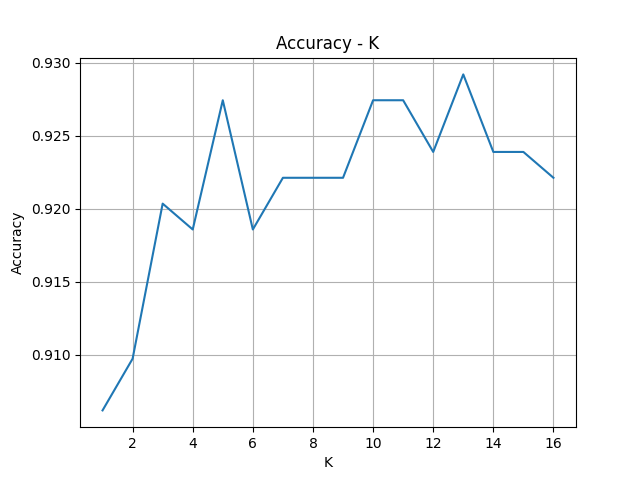
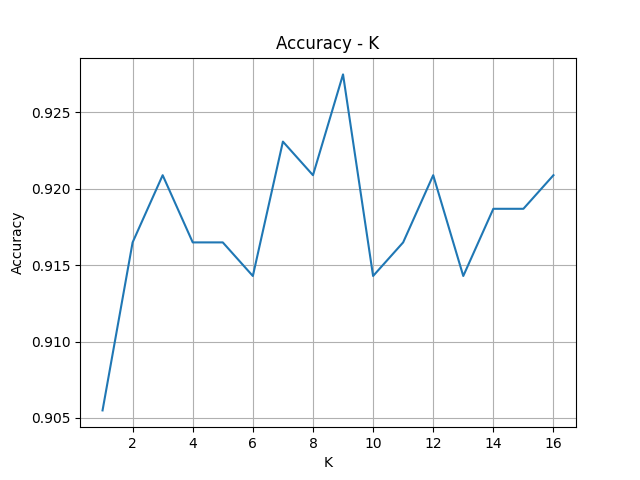
add correlation removal

diff --git a/cancer-knn-v1-pt3.py b/cancer-knn-v1-pt3.py
@@ -22,88 +22,46 @@ def main():
     X_df = data.drop('diagnosis', axis=1)
     y_df = data['diagnosis']
 
-    mean_features, se_features, worst_features = get_grouped_features(X_df)
+    X_df_train, X_df_test, y_df_train, y_df_test = split_df(X_df, y_df)
 
-    X_mean = get_X_by_features(X_df, mean_features)
-    X_se = get_X_by_features(X_df, se_features)
-    X_worst = get_X_by_features(X_df, worst_features)
+    corr_mean, corr_se, corr_worst = get_correlation_matrix(X_df_train)
+    # show_correlation_matrix(corr_mean, corr_se, corr_worst)
+
+    high_corr_mean = get_highly_correlated_groups(corr_mean)
+    high_corr_se = get_highly_correlated_groups(corr_se)
+    high_corr_worst = get_highly_correlated_groups(corr_worst)
+
+    print('highly-correlated groups in se features:', high_corr_se)
+    print('highly-correlated groups in mean features:', high_corr_mean)
+    print('highly-correlated groups in worst features:', high_corr_worst)
+
+    selected_mean = select_best_features(X_df_train, high_corr_mean)
+    selected_se = select_best_features(X_df_train, high_corr_se)
+    selected_worst = select_best_features(X_df_train, high_corr_worst)
+
+    print("Selected from mean:", selected_mean)
+    print("Selected from se:", selected_se)
+    print("Selected from worst:", selected_worst)
+    drop_mean = get_features_to_drop(high_corr_mean, selected_mean)
+    drop_se = get_features_to_drop(high_corr_se, selected_se)
+    drop_worst = get_features_to_drop(high_corr_worst, selected_worst)
+
+    features_to_drop = drop_mean + drop_se + drop_worst
+
+    print("Final features to drop:", features_to_drop)
+    X_df_cleaned = X_df_train.drop(columns=features_to_drop)
+
+    print("Final features after cleaning:", X_df_cleaned.columns)
+
+    k_values = range(1, 17)
+    accuracies = []
     
-    print(f'mean features: {mean_features}')
-    print(f'se features: {se_features}')
-    print(f'worst features: {worst_features}')
+    for k in k_values:
+        acc = cross_validation_accuracy(X_df_cleaned.values, y_df_train.values , k_value=k, n_folds=5)
+        accuracies.append(acc)
 
-    corr_mean = X_mean.corr()
-    corr_se = X_se.corr()
-    corr_worst = X_worst.corr()
-
-    plt.figure(figsize=(15, 6))
-
-    # 1. گروه Mean
-    plt.subplot(1, 3, 1)
-    cax1 = plt.imshow(corr_mean, cmap='coolwarm', interpolation='nearest')
-    plt.title('Correlation Matrix (Mean Features)')
-    plt.xticks(range(len(corr_mean.columns)), corr_mean.columns, rotation=90, fontsize=8)
-    plt.yticks(range(len(corr_mean.columns)), corr_mean.columns, fontsize=8)
-    plt.colorbar(cax1)
-
-    # 2. گروه SE
-    plt.subplot(1, 3, 2)
-    cax2 = plt.imshow(corr_se, cmap='coolwarm', interpolation='nearest')
-    plt.title('Correlation Matrix (SE Features)')
-    plt.xticks(range(len(corr_se.columns)), corr_se.columns, rotation=90, fontsize=8)
-    plt.yticks(range(len(corr_se.columns)), corr_se.columns, fontsize=8)
-    plt.colorbar(cax2)
-
-    # 3. گروه Worst
-    plt.subplot(1, 3, 3)
-    cax3 = plt.imshow(corr_worst, cmap='coolwarm', interpolation='nearest')
-    plt.title('Correlation Matrix (Worst Features)')
-    plt.xticks(range(len(corr_worst.columns)), corr_worst.columns, rotation=90, fontsize=8)
-    plt.yticks(range(len(corr_worst.columns)), corr_worst.columns, fontsize=8)
-    plt.colorbar(cax3)
-
-    plt.tight_layout()
-    plt.show()
-
-
-
-
-    # X_np = X_df.values
-    # Y_np = y_df.values
-
-    # X_train, X_test, y_train, y_test = split(X_np, Y_np)
-
-    # X_train_scaled, X_test_scaled, _, _ = standard_scaler(X_train, X_test)
-
-    # best_k = 6
-
-    # y_pred_proper , accuracy_proper = get_pred_and_accuracy(X_train_scaled, y_train, X_test_scaled, y_test, best_k)
-    # print(f'accuracy on properly scaled data: {accuracy_proper:.4f}')
-
-    # X_full = np.concatenate([X_train, X_test])
-
-    # X_full_scaled, _, _ = standard_scaler(X_full)
-
-    # train_length = len(X_train)
-    # X_train_leaked = X_full_scaled[:train_length]
-    # X_test_leaked = X_full_scaled[train_length:]
-
-    # y_pred_leaked, accuracy_leaked = get_pred_and_accuracy(X_train_leaked, y_train, X_test_leaked, y_test, best_k)
-
-    # print(f'accuracy on leaky scaled data: {accuracy_leaked:.4f}')
-
-    # difference = accuracy_leaked - accuracy_proper
-    # print(f'difference on accuracy between proper and leaked scaling: {difference:.4f}')
-
-    # k_values = range(1, 17)
-    # accuracies = []
-    
-    # for k in k_values:
-    #     acc = cross_validation_accuracy(X_train_scaled, y_train, k_value=k, n_folds=5)
-    #     accuracies.append(acc)
-
-    # best_k = k_values[np.argmax(accuracies)]
-    # print(f"Best K = {best_k}")
+    best_k = k_values[np.argmax(accuracies)]
+    print(f"Best K = {best_k}")
 
     # plt.plot(k_values, accuracies)
     # plt.title("Accuracy - K")
@@ -112,23 +70,27 @@ def main():
     # plt.grid(True)
     # plt.show()
 
-def get_grouped_features(X_df):
 
-    feature_names = X_df.columns.tolist()
-    mean_features = [col for col in feature_names if 'mean' in col]
-    se_features = [col for col in feature_names if 'se' in col]
-    worst_features = [col for col in feature_names if 'worst' in col]
+def get_features_to_drop(high_corr_groups, selected_features):
+    drop_list = []
 
-    return mean_features, se_features, worst_features
+    for group, selected in zip(high_corr_groups, selected_features):
+        for feature in group:
+            if feature != selected:
+                drop_list.append(feature)
 
-def get_X_by_features(X_df, feature_group):
-    X_feature_group = X_df[feature_group]
-    return X_feature_group
+    return drop_list
 
-def get_pred_and_accuracy(X_train, y_train, X_test, y_test, k):
-    y_pred = knn_predict(X_train, y_train, X_test, k)
-    accuracy = get_accuracy(y_pred, y_test)
-    return y_pred, accuracy
+
+
+def select_best_features(X_df, groups):
+    selected = []
+    for group in groups:
+        vars = X_df[group].var()
+        best_feature = vars.idxmax()
+        selected.append(best_feature)
+
+    return selected
 
 if __name__ == "__main__":
     main()

diff --git a/methods.py b/methods.py
@@ -23,6 +23,24 @@ def split(X, y, test_size=0.2, random_state=42):
     
     return X[train_indices], X[test_indices], y[train_indices], y[test_indices]
 
+def split_df(X, y, test_size=0.2, random_state=42):
+    np.random.seed(random_state)
+    n = len(X)
+    n_test = int(test_size * n)
+    indices = np.arange(n)
+    np.random.shuffle(indices)
+
+    test_idx = indices[:n_test]
+    train_idx = indices[n_test:]
+
+    return (
+        X.iloc[train_idx].reset_index(drop=True),
+        X.iloc[test_idx].reset_index(drop=True),
+        y.iloc[train_idx].reset_index(drop=True),
+        y.iloc[test_idx].reset_index(drop=True)
+    )
+
+
 def standard_scaler(X_train, X_test=None):
     mean = np.mean(X_train, axis=0)
     std = np.std(X_train, axis=0)
@@ -72,3 +90,84 @@ def cross_validation_accuracy(X, y, k_value, n_folds=5):
 def get_accuracy(predictions, test_targets):    
     return np.mean(predictions == test_targets)
 
+def get_correlation_matrix(X_df):
+    mean_features, se_features, worst_features = get_grouped_features(X_df)
+
+    X_mean = get_X_by_features(X_df, mean_features)
+    X_se = get_X_by_features(X_df, se_features)
+    X_worst = get_X_by_features(X_df, worst_features)
+    
+    # print(f'mean features: {mean_features}')
+    # print(f'se features: {se_features}')
+    # print(f'worst features: {worst_features}')
+
+    corr_mean = X_mean.corr()
+    corr_se = X_se.corr()
+    corr_worst = X_worst.corr()
+
+    return corr_mean, corr_se, corr_worst
+
+def show_correlation_matrix(corr_mean, corr_se, corr_worst):
+    plt.figure(figsize=(15, 6))
+
+    plt.subplot(1, 3, 1)
+    cax1 = plt.imshow(corr_mean, cmap='coolwarm', interpolation='nearest')
+    plt.title('Correlation Matrix (Mean Features)')
+    plt.xticks(range(len(corr_mean.columns)), corr_mean.columns, rotation=90, fontsize=8)
+    plt.yticks(range(len(corr_mean.columns)), corr_mean.columns, fontsize=8)
+    plt.colorbar(cax1)
+
+    plt.subplot(1, 3, 2)
+    cax2 = plt.imshow(corr_se, cmap='coolwarm', interpolation='nearest')
+    plt.title('Correlation Matrix (SE Features)')
+    plt.xticks(range(len(corr_se.columns)), corr_se.columns, rotation=90, fontsize=8)
+    plt.yticks(range(len(corr_se.columns)), corr_se.columns, fontsize=8)
+    plt.colorbar(cax2)
+
+    plt.subplot(1, 3, 3)
+    cax3 = plt.imshow(corr_worst, cmap='coolwarm', interpolation='nearest')
+    plt.title('Correlation Matrix (Worst Features)')
+    plt.xticks(range(len(corr_worst.columns)), corr_worst.columns, rotation=90, fontsize=8)
+    plt.yticks(range(len(corr_worst.columns)), corr_worst.columns, fontsize=8)
+    plt.colorbar(cax3)
+
+    plt.tight_layout()
+    plt.show()  
+
+
+def get_highly_correlated_groups(corr_matrix, threshold=0.85):
+
+    visited = set()
+    groups = []
+
+    for col in corr_matrix.columns:
+        if col in visited:
+            continue
+        high_corr = corr_matrix.index[
+            (corr_matrix[col].abs() >= threshold) & (corr_matrix.index != col)
+        ].tolist()
+
+        if high_corr:
+            group = [col] + high_corr
+
+            for f in group:
+                visited.add(f)
+
+            groups.append(group)
+
+    return groups
+
+
+
+def get_grouped_features(X_df):
+
+    feature_names = X_df.columns.tolist()
+    mean_features = [col for col in feature_names if 'mean' in col]
+    se_features = [col for col in feature_names if 'se' in col]
+    worst_features = [col for col in feature_names if 'worst' in col]
+
+    return mean_features, se_features, worst_features
+
+def get_X_by_features(X_df, feature_group):
+    X_feature_group = X_df[feature_group]
+    return X_feature_group

diff --git a/cancer-knn-v1-pt1.py b/cancer-knn-v1-pt1.py
@@ -28,19 +28,19 @@ def main():
     accuracies = []
 
     for k in k_values:
-        acc = cross_validation_accuracy(X_np, Y_np, k_value=k, n_folds=5)
+        acc = cross_validation_accuracy(X_train, y_train, k_value=k, n_folds=5)
         accuracies.append(acc)
         print(f"K={k}  Accuracy={acc:.4f}")
 
     best_k = k_values[np.argmax(accuracies)]
     print(f"Best K = {best_k}")
 
-    # plt.plot(k_values, accuracies)
-    # plt.title("Accuracy - K")
-    # plt.xlabel("K")
-    # plt.ylabel("Accuracy")
-    # plt.grid(True)
-    # plt.show()
+    plt.plot(k_values, accuracies)
+    plt.title("Accuracy - K")
+    plt.xlabel("K")
+    plt.ylabel("Accuracy")
+    plt.grid(True)
+    plt.show()
 
     # print('data description:\n', data.describe())
     # print('data info:\n' , data.info())
